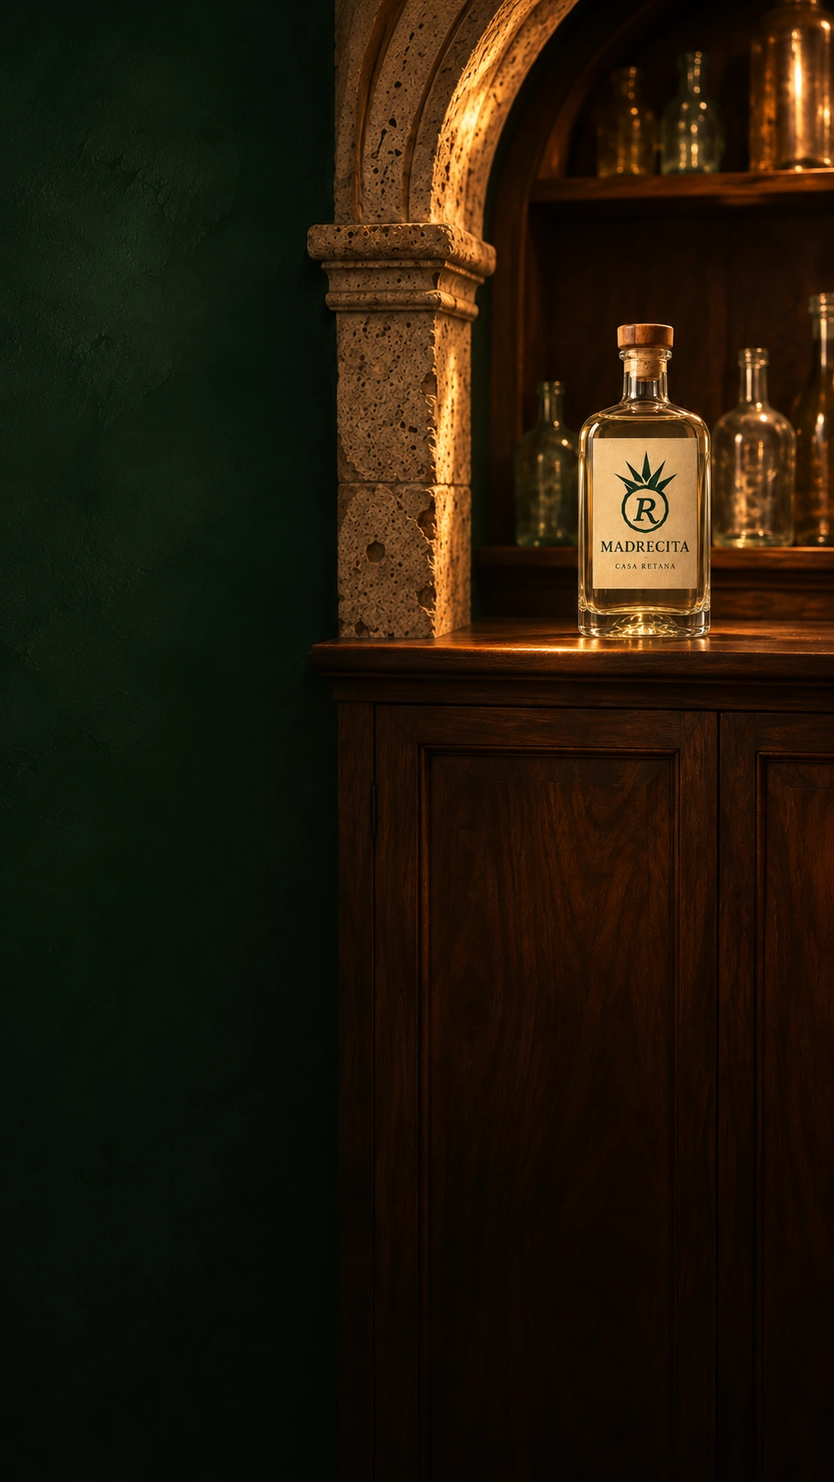
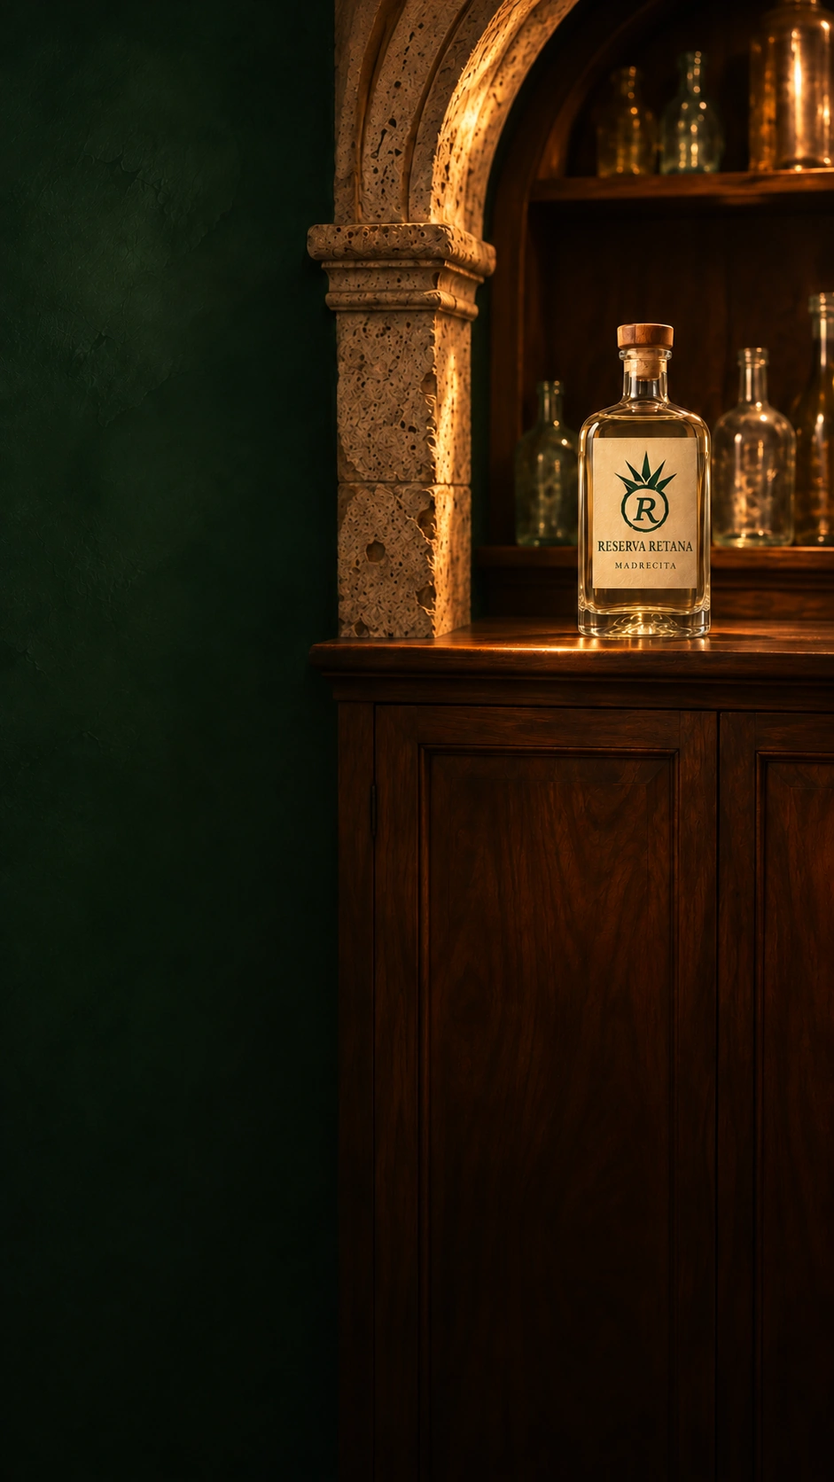
Exhibe Reserva Retana en la barra y la mesa del museo

diff --git a/app.js b/app.js
@@ -1,4 +1,5 @@
 // Madrecita · catálogo administrado.
+import {reservaViews} from './reserva-retana.js';
 import * as THREE from './vendor/three.module.js';
 import {welcomePath, easeBetween} from './recorrido-bienvenida.js';
 import {mountPlaque, entranceView} from './placa-madrecita.js';
@@ -186,7 +187,7 @@ function routeTo(to,target,welcome=false){
  return true;
 }
 function goTo(i){if(!ready||i<0||i>=pieces.length)return;enter();document.exitPointerLock?.();keys.clear();selected=i;guided=true;const p=pieces[i];const to=new THREE.Vector3(-8.3,2.55,p.z+1.15);routeTo(to,new THREE.Vector3(p.x,2.6,p.z));$('tour').textContent='Salir de la visita guiada';$('tour-caption').textContent=`Mirada ${i+1} de ${pieces.length} · ${p.theme.split(' / ')[0].toLowerCase()}`;hint(i);}
-function visitZone(zone){enter();keys.clear();guided=true;selected=-1;hint(-1);const views={walls:{from:[-8.25,2.65,11.25],to:[3.65,2.65,-2.1],text:'El comedor y la pantalla'},bar:{from:[.4,2.55,11.8],to:[-3.6,1.65,15],text:'La barra · piedra verde y luz de cobre, frente a la televisión'},dining:{from:[.5,2.55,12.7],to:[5.3,1.7,6.8],text:'El comedor · la mesa rectangular del lugar'},lounge:{from:[.5,2.55,4],to:[-4.2,1.5,3],text:'El lounge · frente al muro de la colección'},screen:{from:[4,2.55,-12.5],to:[.1,2.3,-15.8],text:'La pantalla · memoria en movimiento'}};const v=views[zone];routeTo(new THREE.Vector3(...v.from),new THREE.Vector3(...v.to));$('tour-caption').textContent=v.text;$('tour').textContent='Salir de la visita guiada';}
+function visitZone(zone){enter();keys.clear();guided=true;selected=-1;hint(-1);const views={walls:{from:[-8.25,2.65,11.25],to:[3.65,2.65,-2.1],text:'El comedor y la pantalla'},...reservaViews,lounge:{from:[.5,2.55,4],to:[-4.2,1.5,3],text:'El lounge · frente al muro de la colección'},screen:{from:[4,2.55,-12.5],to:[.1,2.3,-15.8],text:'La pantalla · memoria en movimiento'}};const v=views[zone];routeTo(new THREE.Vector3(...v.from),new THREE.Vector3(...v.to));$('tour-caption').textContent=v.text;$('tour').textContent='Salir de la visita guiada';}
 $('bar').onclick=()=>visitZone('bar');$('lounge').onclick=()=>visitZone('lounge');$('dining').onclick=()=>visitZone('dining');
 async function toggleFilm(){if(!ready)return;if(film.paused){waitingForGesture=false;audio.pause();$('sound').innerHTML='Sonido <span>○</span>';$('sound').setAttribute('aria-pressed','false');visitZone('screen');try{await film.play();casona.playScreen();$('screen-toggle').textContent='Pausar película';$('screen-toggle').setAttribute('aria-pressed','true');}catch{toast('Pulsa de nuevo para reproducir la película.');}}else{film.pause();$('screen-toggle').textContent='Ver película ▶';$('screen-toggle').setAttribute('aria-pressed','false');}}
 $('screen-toggle').onclick=toggleFilm;film.onended=()=>{$('screen-toggle').textContent='Ver película ▶';$('screen-toggle').setAttribute('aria-pressed','false');};
@@ -195,7 +196,7 @@ function hint(i){if(i<0){$('piece-hint').hidden=true;return;}$('piece-hint').hid
 $('gaming').onclick=()=>{if(!ready)return;enter();if(document.pointerLockElement)document.exitPointerLock();else renderer.domElement.requestPointerLock?.();};document.addEventListener('pointerlockchange',()=>{locked=document.pointerLockElement===renderer?.domElement;$('gaming').textContent=locked?'Liberar ratón · Esc':'Modo gaming';$('gaming').setAttribute('aria-pressed',String(locked));$('crosshair').hidden=!locked;keys.clear();});document.addEventListener('pointerlockerror',()=>toast('Puedes seguir mirando al arrastrar el ratón.'));
 function cancelTour(){tween=null;if(guided){guided=false;$('tour').textContent='Recorrido guiado';$('tour-caption').textContent='Explora a tu ritmo.';}}
 document.addEventListener('keydown',e=>{if(!entered||isModal()||/INPUT|TEXTAREA/.test(e.target.tagName))return;const k=e.key.toLowerCase();if(['w','a','s','d','arrowup','arrowdown','arrowleft','arrowright','shift','e'].includes(k)){e.preventDefault();if(k==='e'){openPiece(guided?selected:nearest);return;}keys.add(k);cancelTour();}});document.addEventListener('keyup',e=>keys.delete(e.key.toLowerCase()));window.addEventListener('blur',()=>{keys.clear();drag=null;});document.addEventListener('visibilitychange',()=>{clock?.getDelta();if(document.hidden){keys.clear();drag=null;}});
-const world=$('world');world.addEventListener('pointerdown',e=>{if(!entered||isModal())return;drag={x:e.clientX,y:e.clientY,startX:e.clientX,startY:e.clientY,moved:0};if(!locked)world.setPointerCapture(e.pointerId);});world.addEventListener('pointermove',e=>{if(!entered||isModal())return;if(locked){cancelTour();yaw-=e.movementX*.0022;pitch=Math.max(-.65,Math.min(.7,pitch-e.movementY*.0022));}else if(drag){const dx=e.clientX-drag.x,dy=e.clientY-drag.y;drag.moved+=Math.abs(dx)+Math.abs(dy);if(drag.moved>4){cancelTour();yaw-=dx*.004;pitch=Math.max(-.65,Math.min(.7,pitch-dy*.004));}drag.x=e.clientX;drag.y=e.clientY;}});world.addEventListener('pointerup',e=>{if(drag&&drag.moved<6&&ready){const ray=new THREE.Raycaster();ray.setFromCamera(locked?new THREE.Vector2(0,0):new THREE.Vector2((e.clientX/innerWidth)*2-1,1-(e.clientY/innerHeight)*2),camera);const hits=ray.intersectObjects(bottles);if(hits[0]){if(hits[0].object.userData.action==='dedication')readDedication();else if(hits[0].object.userData.action==='screen')toggleFilm();else openPiece(hits[0].object.userData.piece);}}drag=null;});world.addEventListener('pointercancel',()=>drag=null);
+const world=$('world');world.addEventListener('pointerdown',e=>{if(!entered||isModal())return;drag={x:e.clientX,y:e.clientY,startX:e.clientX,startY:e.clientY,moved:0};if(!locked)world.setPointerCapture(e.pointerId);});world.addEventListener('pointermove',e=>{if(!entered||isModal())return;if(locked){cancelTour();yaw-=e.movementX*.0022;pitch=Math.max(-.65,Math.min(.7,pitch-e.movementY*.0022));}else if(drag){const dx=e.clientX-drag.x,dy=e.clientY-drag.y;drag.moved+=Math.abs(dx)+Math.abs(dy);if(drag.moved>4){cancelTour();yaw-=dx*.004;pitch=Math.max(-.65,Math.min(.7,pitch-dy*.004));}drag.x=e.clientX;drag.y=e.clientY;}});world.addEventListener('pointerup',e=>{if(drag&&drag.moved<6&&ready){const ray=new THREE.Raycaster();ray.setFromCamera(locked?new THREE.Vector2(0,0):new THREE.Vector2((e.clientX/innerWidth)*2-1,1-(e.clientY/innerHeight)*2),camera);const hits=ray.intersectObjects(bottles);if(hits[0]){if(hits[0].object.userData.action==='dedication')readDedication();else if(hits[0].object.userData.action==='reserva')showDialog('reserva-dialog');else if(hits[0].object.userData.action==='screen')toggleFilm();else openPiece(hits[0].object.userData.piece);}}drag=null;});world.addEventListener('pointercancel',()=>drag=null);
 document.querySelectorAll('[data-move]').forEach(b=>{const k={forward:'w',back:'s',left:'a',right:'d'}[b.dataset.move];b.onpointerdown=e=>{e.preventDefault();keys.add(k);cancelTour();b.setPointerCapture(e.pointerId);};b.onpointerup=b.onpointercancel=()=>keys.delete(k);b.onlostpointercapture=()=>keys.delete(k);});
 function allowed(x,z){if(x< -8.9||x>8.9||z< -16.6||z>16.9)return false;return !casona?.obstacles.some(([l,r,a,b])=>x>l-.25&&x<r+.25&&z>a-.25&&z<b+.25);}
 

diff --git a/archivo/index.html b/archivo/index.html
@@ -33,7 +33,7 @@
 <div class="axis"><button data-axis="place" aria-pressed="true">Lugares</button><button data-axis="class" aria-pressed="false">Clases</button></div><div class="atlas-body"><div id="cloud" aria-label="Nube de términos"></div><aside><span class="micro">LECTURA DEL ARCHIVO</span><h3 id="cloud-focus">La colección</h3><strong id="cloud-count"></strong><p id="cloud-note"></p><div id="related"></div><button id="view-results">Ver las botellas ↓</button></aside></div><p class="atlas-foot">El tamaño indica cuántas fichas coinciden. Los lugares proceden del campo de productor; el diagrama no representa distancias ni el origen del agave. <a href="datos/COBERTURA.md" download>Ver cobertura ↓</a></p></details></section>
 <section id="exhibicion" aria-label="Exhibición de botellas"><div class="results" id="result-head"><div><span class="eyebrow">ARCHIVO &nbsp; / &nbsp; RESULTADOS</span><h2>Las botellas<span>.</span></h2><span id="count" role="status">Leyendo el archivo…</span></div><div class="result-actions"><button id="clear">Limpiar filtros</button><div class="mode" role="group" aria-label="Disposición de botellas"><button id="rack" aria-pressed="true">Estante</button><button id="tiles" aria-pressed="false">Mosaico</button></div></div></div><div class="shelf-assembly"><div class="theme-bar"><div data-selector-tema></div></div><div class="shelf-wrap"><div id="grid" class="rack" tabindex="0" aria-label="Resultados de botellas"></div><div class="rail-arrows"><button id="rail-left" aria-label="Mover estante a la izquierda">←</button><button id="rail-right" aria-label="Mover estante a la derecha">→</button></div></div></div><div id="pages"><button id="prev">← Anterior</button><span id="page"></span><button id="next">Siguiente →</button></div></section></section>
 
-<section id="mesa" hidden><div class="hero"><div><div class="eyebrow">03 &nbsp; / &nbsp; EXPERIENCIAS</div><h1>La Mesa<span>.</span></h1><p>La visita continúa en el comedor. Prepara una sobremesa alrededor de las piezas que acabas de descubrir.</p></div><figure><img src="sala/6.jpeg" alt="El lounge junto al muro de botellas"><figcaption>CASA RETANA &nbsp; / &nbsp; VISTA DEL LOUNGE</figcaption></figure></div><div class="split"><div><div class="eyebrow">CUADERNO DE VISITA</div><h2>Prepara tu recorrido.</h2><p>Elige un hilo para la conversación. Puedes añadir piezas desde los pasaportes de La Cava.</p><label>Experiencia propuesta<select id="experience"><option>Paseo por la colección</option><option>El lenguaje de la etiqueta</option><option>Sobremesa de memoria familiar</option></select></label><p id="experience-note"></p><button id="download">Descargar mi itinerario ↓</button></div><article><div class="eyebrow">MI ITINERARIO</div><ol id="itinerary"></ol><a class="action" id="start-tour" href="../?estacion=0">Comenzar el recorrido 3D →</a><a class="textlink" href="../?zona=comedor">Ir al comedor 3D ↗</a><p class="muted">Plan personal guardado en este navegador. No es una reserva.</p></article></div></section>
+<section id="mesa" hidden><div class="hero"><div><div class="eyebrow">03 &nbsp; / &nbsp; EXPERIENCIAS</div><h1>La Mesa<span>.</span></h1><p>En la barra y en la mesa de Jesús encontrarás Reserva Retana, la botella diseñada para la casa.</p><a class="action" href="../?zona=comedor">Ver Reserva Retana en la mesa 3D →</a></div><figure><a href="../botella/"><img src="../assets/portadas/casa-retana.webp" alt="Descubrir el diseño de Reserva Retana"></a><figcaption>RESERVA RETANA &nbsp; / &nbsp; BOTELLA DE LA CASA</figcaption></figure></div><div class="split"><div><div class="eyebrow">CUADERNO DE VISITA</div><h2>Prepara tu recorrido.</h2><p>Elige un hilo para la conversación. Puedes añadir piezas desde los pasaportes de La Cava.</p><label>Experiencia propuesta<select id="experience"><option>Paseo por la colección</option><option>El lenguaje de la etiqueta</option><option>Sobremesa de memoria familiar</option></select></label><p id="experience-note"></p><button id="download">Descargar mi itinerario ↓</button></div><article><div class="eyebrow">MI ITINERARIO</div><ol id="itinerary"></ol><a class="action" id="start-tour" href="../?estacion=0">Comenzar el recorrido 3D →</a><a class="textlink" href="../?zona=comedor">Ir al comedor 3D ↗</a><p class="muted">Plan personal guardado en este navegador. No es una reserva.</p></article></div></section>
 <section id="fuentes" hidden><div class="eyebrow">FAMILIA RETANA &nbsp; / &nbsp; LA CASA</div><h1>Orígenes<span>.</span></h1><div class="split identity"><div><h2>La R de Madrecita.</h2><p>Retana. Quise que el apellido de la familia fuera la primera palabra que se leyera al entrar a esta cava. Cada vez que miro esa R entre las pencas del agave pienso en ti, mamá, y en la paciencia con que nos enseñaste a cuidar lo que cuesta trabajo.</p><p>He reunido estas botellas una por una. Lo que más ilusión me hace es sentarme con alguien a la mesa, tomar una de ellas y contarle por qué la guardé. Ese gusto de compartir también lo aprendimos de ti.</p><p>Por eso esta cava se llama Madrecita. Queremos que quien cruce esta puerta sepa de quién aprendimos a abrirla. Para ti, mamá, con todo nuestro amor.</p><p class="dedicatoria-firma">Jesús Retana, en nombre de la familia</p><img src="../assets/madrecita-original.png" alt="Firma original Madrecita de Jesús Retana"></div><article><img src="../assets/retana-agave.svg" alt="Emblema estilizado: R dentro de una piña de agave"><h3>El corazón del agave</h3><p>Las pencas se abren en puntas y la R se inclina suavemente en el centro de la piña. En ese corazón se encuentran el apellido Retana y el nombre Madrecita: uno firma la casa y el otro dice a quién se la dedica la familia.</p></article></div><h2>Seis vistas de la casa.</h2><p>La escala de la sala digital es aproximada. Las fotografías guían materiales y proporciones; las estaciones señalan una propuesta de exposición, no una ubicación física verificada.</p><div id="sources"></div><a class="textlink" href="../lugar-real/">Consultar los fotogramas del video original →</a></section></main>
 <footer><span>MADRECITA &nbsp; / &nbsp; COLECCIÓN RETANA</span><a href="../admin/">Administrar colección</a><a href="../">Volver a la casona ↗</a></footer>
 <dialog id="passport"><button id="close" aria-label="Cerrar pasaporte">×</button><div id="passport-content"></div></dialog><script type="module" src="archivo.js"></script></body></html>

diff --git a/index.html b/index.html
@@ -10,6 +10,7 @@
 <dialog id="detail" class="piece-dialog" aria-labelledby="detail-title"><button class="close" aria-label="Cerrar ficha">×</button><div class="overline" id="detail-id"></div><div class="piece-illustration" aria-hidden="true"><img id="detail-photo" alt=""><span id="detail-index"></span></div><p class="overline" id="detail-theme"></p><h2 id="detail-title"></h2><p class="detail-intro" id="detail-intro"></p><div class="curatorial-note"><span>LA MIRADA CURATORIAL</span><p id="detail-note"></p></div><dl id="detail-fields"></dl><p class="disclosure">Estación editorial. La ubicación digital no acredita la posición física de la botella.</p><a class="evidence-link passport-link" id="full-passport">Pasaporte del archivo ↗</a><button class="primary" id="detail-next">Continuar el recorrido →</button></dialog>
 <dialog id="curator-dialog" class="info-dialog" aria-labelledby="curator-title"><button class="close" aria-label="Cerrar curaduría">×</button><div class="overline">UNA IDENTIDAD PARA QUIEN DA SENTIDO</div><h2 id="curator-title">Jesús.<br><em>Una mirada que conserva.</em></h2><p class="role">Curador de la Colección<br><span>Guardián de su Memoria</span></p><p>La colección reúne piezas. La curaduría descubre las relaciones entre ellas: el origen de una forma, la huella de una época, el recuerdo de una familia.</p><div class="principles"><article><span>01 / CONSERVAR</span><h3>Cuidar lo irrepetible.</h3><p>Identificar cada pieza, registrar su estado y preservar los documentos que la acompañan.</p></article><article><span>02 / INTERPRETAR</span><h3>Dar contexto.</h3><p>Separar lo documentado de la memoria oral y construir relatos con fuentes visibles.</p></article><article><span>03 / CONECTAR</span><h3>Compartir una mirada.</h3><p>Elegir qué mostrar, por qué importa y qué conversación puede abrir con quien visita.</p></article></div><div class="living-note"><h3>¿Por qué una sala viva?</h3><p>Una casona que reúne colección y convivencia. Su arquitectura permanece; la selección cambia. Cada exposición puede reunir nuevas piezas, notas del curador y memorias aportadas por visitantes, siempre revisadas antes de publicarse.</p></div><p class="disclosure">Título y responsabilidades propuestos para el proyecto. No implican una acreditación profesional ni una biografía verificada. Los textos curatoriales de esta demostración son propuestas editoriales, no citas de Jesús.</p><button class="primary" id="curator-tour">Recorrer su selección →</button></dialog>
 <dialog id="collection-dialog" class="info-dialog" aria-labelledby="collection-title"><button class="close" aria-label="Cerrar selección">×</button><div class="overline">EXPOSICIÓN INAUGURAL</div><h2 id="collection-title">Una selección.<br>Muchas formas de recordar.</h2><p>Elige una pieza para llegar a su lugar en la sala. Estas fichas provienen del archivo original. Las estaciones forman una exposición propuesta para Jesús.</p><div id="piece-list"></div></dialog>
+<dialog id="reserva-dialog" class="info-dialog compact" aria-labelledby="reserva-title"><button class="close" aria-label="Cerrar botella">×</button><div class="overline">BOTELLA DE LA CASA</div><h2 id="reserva-title">Reserva Retana</h2><img src="assets/portadas/casa-retana.webp" loading="lazy" alt="Reserva Retana con el sello de Madrecita" style="width:100%;height:auto"><p>La R de la familia corona la etiqueta. Debajo de «Reserva Retana» se lee «Madrecita», la dedicatoria de Jesús a su mamá.</p><a class="evidence-link" href="botella/">Ver el diseño de la botella ↗</a></dialog>
 <dialog id="help-dialog" class="info-dialog compact" aria-labelledby="help-title"><button class="close" aria-label="Cerrar ayuda">×</button><div class="overline">HABITA LA SALA</div><h2 id="help-title">A tu ritmo.</h2><ul class="controls"><li><kbd>W A S D</kbd><span>Camina por la sala.</span></li><li><kbd>↑ ↓</kbd><span>Avanza y retrocede.</span></li><li><kbd>← →</kbd><span>Gira la mirada.</span></li><li><kbd>Arrastrar</kbd><span>Mira alrededor con ratón o dedo.</span></li><li><kbd>E</kbd><span>Abre la pieza cercana.</span></li><li><kbd>Esc</kbd><span>Libera el ratón o cierra una ficha.</span></li></ul><p>En <strong>Modo gaming</strong>, el ratón controla directamente la mirada. En móvil, utiliza las flechas y desliza sobre la sala para mirar.</p><p>También puedes usar <strong>Recorrido guiado</strong> y <strong>Siguiente</strong> sin controlar la cámara. Se respeta la preferencia de movimiento reducido del dispositivo.</p></dialog>
 <section id="fallback" aria-labelledby="light-title">
   <div class="light-plaque"><img src="assets/retana-agave-claro.svg" alt=""><h2 id="light-title">Retana</h2>

diff --git a/botella/index.html b/botella/index.html
@@ -4,7 +4,7 @@
   <meta charset="utf-8">
   <meta name="viewport" content="width=device-width,initial-scale=1">
   <meta name="theme-color" content="#17362c">
-  <title>Botella de la casa · Madrecita</title>
+  <title>Reserva Retana · Madrecita</title>
   <link rel="icon" href="../assets/retana-app.svg">
   <style>
     *{box-sizing:border-box}
@@ -27,17 +27,18 @@
 </head>
 <body><main>
   <nav><a href="../?portada=casa-retana">← Volver a la portada</a></nav>
-  <header><div class="eyebrow">Casa Retana · Diseño de muestra</div><h1>Botella de la casa</h1>
-    <p>El nombre «Madrecita» ocupa el frente, debajo de la R de Retana en la piña de agave. El papel marfil y la madera del tapón retoman los tonos de la piedra y los estantes de la cava de Jesús.</p>
+  <header><div class="eyebrow">Casa Retana · Diseño de muestra</div><h1>Reserva Retana</h1>
+    <p>La botella de la casa lleva la R de la familia en el corazón del agave. Bajo el nombre «Reserva Retana» se lee «Madrecita», la dedicatoria de Jesús a su mamá. El papel marfil y la madera del tapón retoman los tonos de la piedra y los estantes de la cava de Jesús.</p>
+    <p><a href="../?zona=barra">Verla en la barra 3D</a> &nbsp;·&nbsp; <a href="../?zona=comedor">Verla en la mesa 3D</a></p>
   </header>
-  <img class="render" src="../assets/portadas/casa-retana.webp" width="1672" height="941" alt="Propuesta de botella de vidrio transparente con hombros redondeados, tapón de madera y etiqueta Madrecita · Casa Retana.">
+  <img class="render" src="../assets/portadas/casa-retana.webp" width="1672" height="941" alt="Propuesta de botella de vidrio transparente con hombros redondeados, tapón de madera y etiqueta Reserva Retana · Madrecita.">
   <section class="drawing"><img src="etiqueta-frontal.svg" width="248" height="304" style="height:auto" alt="Frente de etiqueta a una tinta, con el sello de la familia.">
     <div><h2>Primera muestra</h2><dl>
       <dt>Envase propuesto</dt><dd>Botella de catálogo de 750 ml, de vidrio transparente, cuerpo rectangular, cantos suaves y cara frontal plana.</dd>
       <dt>Cierre</dt><dd>Tapón con cabeza de madera. Seleccionar el diámetro y el inserto al elegir la boca del envase.</dd>
       <dt>Etiqueta</dt><dd>Prueba frontal de 62 × 76 mm sobre papel marfil autoadherible, impresa en verde. La medida se ajustará a la zona plana de la botella elegida.</dd>
     </dl>
-    <a class="download" href="etiqueta-frontal.svg" download="Madrecita-Casa-Retana-frente.svg">Descargar etiqueta vectorial de muestra ↓</a></div>
+    <a class="download" href="etiqueta-frontal.svg" download="Reserva-Retana-frente.svg">Descargar etiqueta vectorial de muestra ↓</a></div>
   </section>
   <section><h2>Del diseño al vidrio</h2><p>Para la primera cotización, pedir al proveedor un envase de catálogo, su plano y el cierre compatible. Imprimir la etiqueta a tamaño real, colocarla en la muestra y revisar que asiente sin arrugas, que el tapón ajuste y que la R se lea desde el estante.</p>
     <p>El render muestra una propuesta. Jesús y el productor definirán el contenido y la información de la contraetiqueta antes de preparar el arte comercial.</p>

diff --git a/reserva-retana.js b/reserva-retana.js
@@ -1,0 +1,68 @@
+import * as T from './vendor/three.module.js';
+
+// La altura de cada apoyo es la cara superior de la barra o del tablero.
+export const reservaViews = {
+  bar: {base: [-1.25, 1.65, 14.32], from: [-.5, 2.55, 12.65], text: 'Reserva Retana en la barra · Toca la botella'},
+  dining: {base: [3.85, 1.53, 9.82], from: [2.08, 2.55, 12.08], text: 'Reserva Retana en la mesa · Toca la botella'}
+};
+
+function roundedSections(rings) {
+  const vertices = [], indices = [], sides = 32;
+  const rounded = v => Math.sign(v) * Math.abs(v)**.48;
+  for (const [y, width, depth] of rings) {
+    for (let i=0; i<sides; i++) {
+      const angle = 2*Math.PI*i/sides;
+      vertices.push(width*rounded(Math.cos(angle)), y, depth*rounded(Math.sin(angle)));
+    }
+  }
+  for (let row=0; row<rings.length-1; row++) {
+    for (let i=0; i<sides; i++) {
+      const a=row*sides+i, b=row*sides+(i+1)%sides;
+      indices.push(a,a+sides,b, b,a+sides,b+sides);
+    }
+  }
+  const geometry = new T.BufferGeometry();
+  geometry.setAttribute('position',new T.Float32BufferAttribute(vertices,3));
+  geometry.setIndex(indices);
+  geometry.computeVertexNormals();
+  return geometry;
+}
+
+export function mountReserva(scene, selectables, wood) {
+  const prototype = new T.Group();
+  const profile = [[0,.001,.001],[.012,.16,.092],[.04,.19,.115],[.56,.19,.115],
+    [.59,.184,.11],[.64,.14,.09],[.69,.065,.059],[.71,.057,.056],
+    [.78,.057,.056],[.79,.066,.063],[.82,.066,.063],[.823,.001,.001]];
+  const glass = new T.MeshStandardMaterial({color:0xfff2d9, roughness:.1, metalness:.48, transparent:true, opacity:.38, depthWrite:false});
+  const body = new T.Mesh(roundedSections(profile),glass);
+  body.renderOrder = 2;
+  prototype.add(body);
+  const liquid = new T.Mesh(roundedSections([[.04,.001,.001],[.05,.16,.09],[.07,.18,.106],
+    [.56,.18,.106],[.585,.174,.102],[.586,.001,.001]]),
+    new T.MeshStandardMaterial({color:0xe2aa54,roughness:.16,transparent:true,opacity:.78,depthWrite:false}));
+  liquid.renderOrder = 1;
+  prototype.add(liquid);
+  const cap = new T.Mesh(new T.CylinderGeometry(.08,.08,.09,24),wood);
+  cap.position.y = .861;
+  prototype.add(cap);
+  const cork = new T.Mesh(new T.CylinderGeometry(.043,.043,.09,16),new T.MeshStandardMaterial({color:0xc99d68}));
+  cork.position.y = .779;
+  prototype.add(cork);
+  const label = new T.TextureLoader().load('botella/reserva-etiqueta.png');
+  label.colorSpace = T.SRGBColorSpace;
+  const front = new T.Mesh(new T.PlaneGeometry(.315,.386),new T.MeshBasicMaterial({map:label,toneMapped:false}));
+  front.position.set(0,.335,.117);
+  prototype.add(front);
+  for (const [zone, view] of Object.entries(reservaViews)) {
+    const bottle = prototype.clone();
+    bottle.name = 'Reserva Retana · ' + zone;
+    bottle.position.fromArray(view.base);
+    bottle.rotation.y = Math.atan2(view.from[0]-view.base[0],view.from[2]-view.base[2]);
+    scene.add(bottle);
+    for (const part of bottle.children) {
+      part.userData.action = 'reserva';
+      selectables.push(part);
+    }
+    view.to = [view.base[0], view.base[1]+.39, view.base[2]];
+  }
+}

diff --git a/casona-real.js b/casona-real.js
@@ -1,3 +1,4 @@
+import {mountReserva} from './reserva-retana.js';
 import {createStoneWalls} from './muros-casona.js';
 import {createStoneFloor,createBarStone} from './piedra-natural.js';
 import {createPhotoWall} from './muro-fotografico.js';
@@ -77,6 +78,7 @@ export function createCasona(scene,renderer,video,compact){
  cyl(.016,.016,3.4,black,x,5.42,14.55);const hood=cyl(.16,.42,.4,copper,x,3.55,14.55);mesh(new T.CircleGeometry(.33,24),amber,x,3.33,14.55).rotation.x=-Math.PI/2;}
  for(const x of [-5.25,-4.93,-4.61]){cyl(.055,.07,.016,copper,x,1.67,14.5);cyl(.014,.014,.085,metal,x,1.71,14.5);cyl(.080,.036,.12,mat('#d7d2ad',.22,.37),x,1.80,14.5);}
  // Trasbarra interpretativa: paño de madera, sello verificado y franja de luz baja.
+ mountReserva(scene,selectables,wood);
  const panel=new T.MeshStandardMaterial({map:woodTexture,color:'#39443c',roughness:.80});
  box(11.3,4.5,.16,panel,-3.35,3,17.75);box(11.35,.055,.17,copper,-3.35,5.25,17.64);
  box(11.35,.055,.17,copper,-3.35,.76,17.64);

diff --git a/portada.js b/portada.js
@@ -32,9 +32,9 @@
       const link = document.createElement('a');
       link.href = 'botella/';
       link.style.color = 'inherit';
-      link.textContent = 'Ver el diseño de la botella ↗';
+      link.textContent = 'Descubrir Reserva Retana ↗';
       document.querySelector('.intro .lead').replaceChildren(
-        'Madrecita · La botella de Casa Retana.', document.createElement('br'), link
+        'Reserva Retana · La botella de la casa.', document.createElement('br'), link
       );
     }
     const picture = document.createElement('picture');
